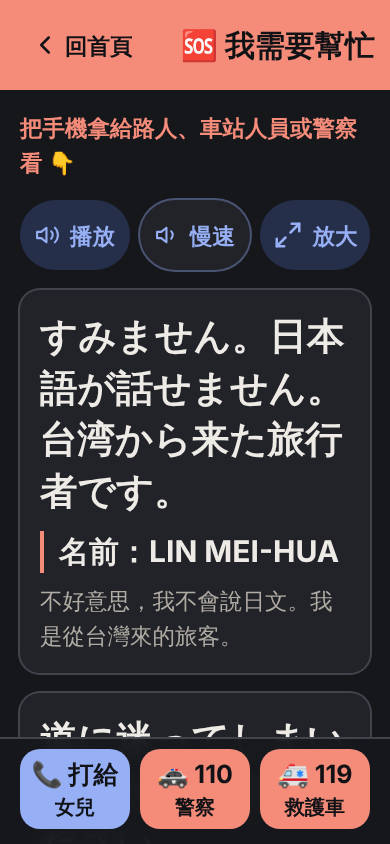
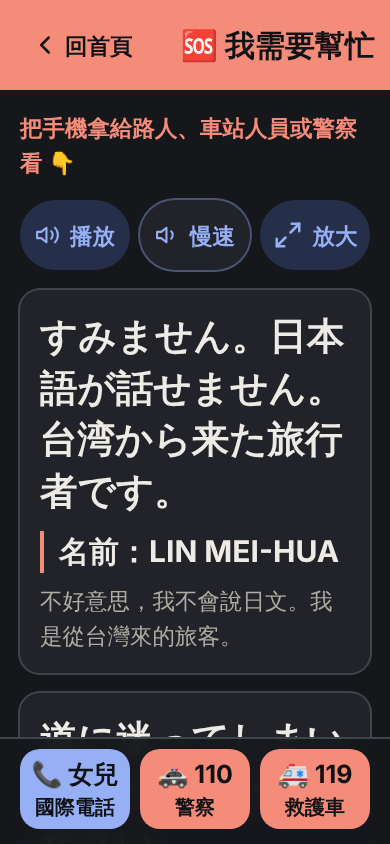
Address code review on the UX redesign
- Overlays carry a unique token in history.state instead of a depth
  number. On popstate the overlay owning the entry stays and those above
  it close; a leftover entry (after a link out of an overlay, or a
  reload) matches none, so 關閉 never needs a second tap.
- Help dock: no extra confirm() before 110/119 (tel: links never dial by
  themselves; a second prompt costs time in an emergency); the family
  button says 國際電話; labels truncate instead of overflowing; the MOFA
  24h line is back among the main numbers.
- 對方說 keeps a slow-play button, with the Japanese on its own line.
- One shared dock() helper (with its spacer) for the scene, help and
  setup docks; setup parses the profile once per keystroke; home and the
  transport picker share isPlannedFor(); the screenshot script matches
  rows by substring instead of an unescaped RegExp.

Claude-Session: https://claude.ai/code/session_01FL5DYQMe9ZWzkevjtD88Bj

Changed region(s): [[0.0923, 0.8934, 0.3077, 0.9858]]

diff --git a/src/ui/help.ts b/src/ui/help.ts
@@ -4,6 +4,7 @@ import { dialable } from "../lib/phone";
 import { type CardBlock, helpCard, LINES } from "../profile/cards";
 import { loadProfile } from "../profile/profile";
 import { fill, h, icon } from "./dom";
+import { dock } from "./layout";
 import { playButton } from "./japanese";
 import { showToOther } from "./overlay";
 
@@ -121,7 +122,7 @@ export function renderHelp(root: HTMLElement): void {
         h(
           "details",
           { class: "rounded-2xl bg-card p-4 ring-2 ring-hair" },
-          h("summary", { class: "cursor-pointer text-xl font-bold text-ai" }, "更多電話（各地辦事處、外交部）"),
+          h("summary", { class: "cursor-pointer text-xl font-bold text-ai" }, "更多電話（各地辦事處）"),
           h(
             "div",
             { class: "mt-3 space-y-3" },
@@ -138,47 +139,43 @@ export function renderHelp(root: HTMLElement): void {
           "。來源為日本政府觀光局、日本消防廳、日本警察與中華民國外交部、駐日代表處官方網站。",
         ),
       ),
-      // Room for the dock, so it never covers the last line.
-      h("div", { class: "h-24", "aria-hidden": "true" }),
+      callDock(family?.relation || "家人", familyPhone?.tel ?? null),
     ),
-    callDock(family?.relation || "家人", familyPhone?.tel ?? null),
   );
 }
 
 /** 110 and 119 live in the dock; these two come first in the list below the card. */
 const DOCKED_NUMBERS = ["police", "ambulance"];
-const MAIN_NUMBERS = ["jnto-hotline", "tecro-tokyo"];
+const MAIN_NUMBERS = ["jnto-hotline", "tecro-tokyo", "mofa-taiwan"];
 
 /**
  * Calls that matter most, docked at the bottom so they are reachable from
- * anywhere on the page. 110 and 119 ask first: a pocket tap should not
- * summon the police.
+ * anywhere on the page. No extra confirmation: a tel: link never dials by
+ * itself (iOS asks, Android opens the dialer), and a second prompt only
+ * slows someone down in an emergency.
  */
-function callDock(familyLabel: string, familyTel: string | null): HTMLElement {
-  const dial = (top: string, bottom: string, tel: string, confirmText: string | null, tone: string) =>
+function callDock(familyLabel: string, familyTel: string | null): HTMLElement[] {
+  const dial = (top: string, bottom: string, tel: string, tone: string) =>
     h(
       "a",
       {
         href: `tel:${tel}`,
-        class: `flex min-h-16 flex-col items-center justify-center rounded-2xl px-1 text-center font-bold leading-tight active:scale-95 ${tone}`,
-        onclick: (event: Event) => {
-          if (confirmText && !confirm(confirmText)) event.preventDefault();
-        },
+        class: `flex min-h-16 min-w-0 flex-col items-center justify-center rounded-2xl px-1 text-center font-bold leading-tight active:scale-95 ${tone}`,
       },
-      h("span", { class: "block whitespace-nowrap text-xl" }, top),
-      h("span", { class: "block whitespace-nowrap text-base" }, bottom),
+      h("span", { class: "block max-w-full truncate text-xl" }, top),
+      h("span", { class: "block max-w-full truncate text-base" }, bottom),
     );
   const police = EMERGENCY_NUMBERS.find((e) => e.id === "police");
   const ambulance = EMERGENCY_NUMBERS.find((e) => e.id === "ambulance");
-  return h(
-    "nav",
-    { class: "pb-safe fixed inset-x-0 bottom-0 z-20 border-t-2 border-hair bg-paper/95 backdrop-blur", "aria-label": "撥打電話" },
+  return dock(
+    "撥打電話",
     h(
       "div",
-      { class: `mx-auto grid max-w-xl gap-2 px-4 pt-2 ${familyTel ? "grid-cols-3" : "grid-cols-2"}` },
-      familyTel && dial("📞 打給", familyLabel, familyTel, null, "bg-ai text-on-accent"),
-      police && dial("🚓 110", "警察", telOf(police.number), "要打 110 報警嗎？", "bg-shu text-on-accent"),
-      ambulance && dial("🚑 119", "救護車", telOf(ambulance.number), "要打 119 叫救護車嗎？", "bg-shu text-on-accent"),
+      { class: `grid gap-2 ${familyTel ? "grid-cols-3" : "grid-cols-2"}` },
+      // The family is abroad: say so, since the call is charged as international.
+      familyTel && dial(`📞 ${familyLabel}`, "國際電話", familyTel, "bg-ai text-on-accent"),
+      police && dial("🚓 110", "警察", telOf(police.number), "bg-shu text-on-accent"),
+      ambulance && dial("🚑 119", "救護車", telOf(ambulance.number), "bg-shu text-on-accent"),
     ),
   );
 }

diff --git a/src/ui/overlay.ts b/src/ui/overlay.ts
@@ -3,16 +3,27 @@ import { plain } from "../lib/jp";
 import { BUTTON, h, icon } from "./dom";
 import { hush, play, playAll, playButton } from "./japanese";
 
-/** Marks the history entries overlays push; the value is the overlay's depth. */
+/** Marks the history entries overlays push; the value is the overlay's own token. */
 const STATE_KEY = "daijoubuOverlay";
 
 /** Open overlays, bottom first. A phrase's detail can open 給對方看 on top of itself. */
-const stack: { depth: number; teardown: () => void }[] = [];
+const stack: { token: string; teardown: () => void }[] = [];
+let opened = 0;
 
-/** Depth recorded in the current history entry: 0 on a plain page. */
-function historyDepth(): number {
-  const value = (history.state as Record<string, unknown> | null)?.[STATE_KEY];
-  return typeof value === "number" ? value : 0;
+/** Token in the current history entry, if it was pushed by an overlay. */
+function historyToken(): unknown {
+  return (history.state as Record<string, unknown> | null)?.[STATE_KEY];
+}
+
+/**
+ * Back (or forward) landed somewhere: keep the overlay whose entry this is
+ * and the ones under it, close the rest. An entry left over from an overlay
+ * that is already gone (after a reload, or a link out of an overlay) matches
+ * none, so everything closes — never a layer that ignores the back button.
+ */
+function onPop(): void {
+  const keep = stack.findIndex((entry) => entry.token === historyToken());
+  for (const entry of stack.slice(keep + 1).reverse()) entry.teardown();
 }
 
 /**
@@ -21,16 +32,17 @@ function historyDepth(): number {
  * layer only, instead of leaving the page; leaving the page closes them all.
  */
 export function openOverlay(label: string, build: (close: () => void) => HTMLElement): () => void {
-  const depth = (stack.at(-1)?.depth ?? 0) + 1;
+  opened += 1;
+  const token = `${Date.now().toString(36)}-${opened}`;
   const overlay = h("div", {
     class: "fixed inset-0 flex flex-col bg-paper text-ink",
-    style: `z-index: ${50 + depth}`,
+    style: `z-index: ${50 + stack.length + 1}`,
     role: "dialog",
     "aria-modal": "true",
     "aria-label": label,
   });
   let open = true;
-  const entry = { depth, teardown };
+  const entry = { token, teardown };
 
   function teardown(): void {
     if (!open) return;
@@ -38,21 +50,19 @@ export function openOverlay(label: string, build: (close: () => void) => HTMLEle
     hush();
     overlay.remove();
     stack.splice(stack.indexOf(entry), 1);
-    if (stack.length === 0) document.body.classList.remove("overflow-hidden");
+    if (stack.length === 0) {
+      document.body.classList.remove("overflow-hidden");
+      window.removeEventListener("popstate", onPop);
+    }
     document.removeEventListener("keydown", onKey);
-    window.removeEventListener("popstate", onPop);
     window.removeEventListener("hashchange", teardown);
     returnFocus?.focus({ preventScroll: true });
   }
   /** Closed from inside: drop the history entry we pushed, which fires popstate → teardown. */
   function close(): void {
     if (!open) return;
-    if (historyDepth() === depth) history.back();
+    if (historyToken() === token) history.back();
     else teardown();
-  }
-  function onPop(): void {
-    // Back from a layer above this one lands on this layer's entry: stay open.
-    if (historyDepth() < depth) teardown();
   }
   function onKey(event: KeyboardEvent): void {
     // Only the top layer answers the keyboard.
@@ -73,9 +83,9 @@ export function openOverlay(label: string, build: (close: () => void) => HTMLEle
 
   const returnFocus = document.activeElement instanceof HTMLElement ? document.activeElement : null;
   overlay.append(build(close));
+  if (stack.length === 0) window.addEventListener("popstate", onPop);
   stack.push(entry);
-  history.pushState({ [STATE_KEY]: depth }, "");
-  window.addEventListener("popstate", onPop);
+  history.pushState({ [STATE_KEY]: token }, "");
   window.addEventListener("hashchange", teardown);
   document.addEventListener("keydown", onKey);
   document.body.classList.add("overflow-hidden");

diff --git a/src/ui/scene.ts b/src/ui/scene.ts
@@ -7,7 +7,7 @@ import { type Ready, ready } from "../profile/fill";
 import { loadProfile, type Place, placesForToday } from "../profile/profile";
 import { fill, h, icon } from "./dom";
 import { jpText, playButton } from "./japanese";
-import { page } from "./layout";
+import { dock, page } from "./layout";
 import { askOther, openOverlay, overlayBar, showToOther } from "./overlay";
 
 /** The destination picked on the scene page; kept while the app is open. */
@@ -98,12 +98,8 @@ function heardCard(heard: Heard): HTMLElement {
     "article",
     { class: "rounded-2xl bg-card p-3 shadow-sm ring-2 ring-hair" },
     h("h3", { class: "text-2xl font-bold leading-snug" }, heard.zh),
-    h(
-      "div",
-      { class: "mt-1 flex items-center gap-2" },
-      h("p", { lang: "ja", class: "min-w-0 flex-1 text-lg text-muted" }, plain(heard.jp)),
-      playButton(heard.jp, "normal", "sm", "shrink-0"),
-    ),
+    h("p", { lang: "ja", class: "mt-1 text-lg text-muted" }, plain(heard.jp)),
+    h("div", { class: "mt-1 flex gap-2" }, playButton(heard.jp, "normal", "sm"), playButton(heard.jp, "slow", "sm")),
     h(
       "div",
       { class: `mt-2 grid gap-2 ${heard.replies.length === 3 ? "grid-cols-3" : "grid-cols-2"}` },
@@ -150,23 +146,18 @@ export function openRescue(): void {
 }
 
 /** Docked at the bottom of every scene, so help with a stuck conversation is one tap from anywhere. */
-function rescueDock(): HTMLElement {
-  return h(
-    "div",
-    { class: "pb-safe fixed inset-x-0 bottom-0 z-20 border-t-2 border-hair bg-paper/95 backdrop-blur" },
+function rescueDock(): HTMLElement[] {
+  return dock(
+    "萬用句",
     h(
-      "div",
-      { class: "mx-auto max-w-xl px-4 pt-2" },
-      h(
-        "button",
-        {
-          type: "button",
-          class: "flex min-h-14 w-full items-center justify-center gap-2 rounded-2xl bg-warn-soft text-xl font-bold text-ink ring-2 ring-hair active:scale-[0.98]",
-          onclick: openRescue,
-        },
-        "🛟 萬用句",
-        h("span", { class: "text-base font-normal text-muted" }, "聽不懂・請說慢一點…"),
-      ),
+      "button",
+      {
+        type: "button",
+        class: "flex min-h-14 w-full items-center justify-center gap-2 rounded-2xl bg-warn-soft text-xl font-bold text-ink ring-2 ring-hair active:scale-[0.98]",
+        onclick: openRescue,
+      },
+      "🛟 萬用句",
+      h("span", { class: "text-base font-normal text-muted" }, "聽不懂・請說慢一點…"),
     ),
   );
 }
@@ -276,8 +267,6 @@ export function renderScene(root: HTMLElement, [id, view]: string[]): void {
       : pickerSlot,
     heard && h("p", { class: "mt-3 text-lg text-muted" }, "聽到對方這樣說時，點一個回答，手機會念給對方聽。"),
     list,
-    // Room for the dock, so it never covers the last row.
-    h("div", { class: "h-24", "aria-hidden": "true" }),
     rescueDock(),
   ]);
   if (heard) fill(list, scene.heard.map(heardCard));

diff --git a/src/ui/setup.ts b/src/ui/setup.ts
@@ -16,7 +16,7 @@ import {
 } from "../profile/profile";
 import { type SetupSectionId, sectionSummaries } from "../profile/summary";
 import { BUTTON, type Child, fill, h, icon } from "./dom";
-import { page } from "./layout";
+import { dock, page } from "./layout";
 
 const INPUT =
   "mt-1 block min-h-14 w-full rounded-xl bg-card px-3 py-2 text-xl text-ink ring-2 ring-hair placeholder:text-muted/80 focus:ring-ai";
@@ -247,8 +247,8 @@ export function renderSetup(root: HTMLElement): void {
   let savedTimer = 0;
 
   /** Rewrites the section headers and the progress line from the current data. */
-  function refresh(): void {
-    const summaries = sectionSummaries(parseProfile(profile));
+  function refresh(parsed: Profile): void {
+    const summaries = sectionSummaries(parsed);
     for (const summary of summaries) {
       const header = headers.get(summary.id);
       if (!header) continue;
@@ -259,8 +259,9 @@ export function renderSetup(root: HTMLElement): void {
   }
 
   function save(): void {
-    saveProfile(parseProfile(profile));
-    refresh();
+    const parsed = parseProfile(profile);
+    saveProfile(parsed);
+    refresh(parsed);
     saved.textContent = "✓ 已儲存";
     window.clearTimeout(savedTimer);
     savedTimer = window.setTimeout(() => (saved.textContent = ""), 1500);
@@ -424,18 +425,15 @@ export function renderSetup(root: HTMLElement): void {
         "清除所有資料",
       ),
     ),
-    // Room for the dock, so it never covers the last button.
-    h("div", { class: "h-24", "aria-hidden": "true" }),
-    h(
-      "nav",
-      { class: "pb-safe fixed inset-x-0 bottom-0 z-20 border-t-2 border-hair bg-paper/95 backdrop-blur", "aria-label": "完成" },
+    ...dock(
+      "完成",
       h(
         "div",
-        { class: "mx-auto grid max-w-xl grid-cols-2 gap-2 px-4 pt-2" },
+        { class: "grid grid-cols-2 gap-2" },
         h("a", { href: "#/", class: `${BUTTON.secondary} min-h-14` }, icon("check"), "完成"),
         h("a", { href: "#/share", class: `${BUTTON.primary} min-h-14` }, icon("share"), "分享"),
       ),
     ),
   ]);
-  refresh();
+  refresh(parseProfile(profile));
 }

diff --git a/src/ui/layout.ts b/src/ui/layout.ts
@@ -29,3 +29,19 @@ export function page(root: HTMLElement, title: string, body: Child[], options: {
 export function section(title: string | null, ...children: Child[]): HTMLElement {
   return h("section", { class: "mt-6" }, title && h("h2", { class: "mb-2 text-xl font-bold text-muted" }, title), children);
 }
+
+/**
+ * Actions docked at the bottom of the screen, reachable from anywhere on a
+ * long page, plus the spacer that keeps the dock from covering the last
+ * line. Put both at the end of the page body.
+ */
+export function dock(label: string, ...children: Child[]): HTMLElement[] {
+  return [
+    h("div", { class: "h-24", "aria-hidden": "true" }),
+    h(
+      "nav",
+      { class: "pb-safe fixed inset-x-0 bottom-0 z-20 border-t-2 border-hair bg-paper/95 backdrop-blur", "aria-label": label },
+      h("div", { class: "mx-auto max-w-xl px-4 pt-2" }, children),
+    ),
+  ];
+}

diff --git a/src/ui/home.ts b/src/ui/home.ts
@@ -1,6 +1,6 @@
 import { SCENES } from "../content/scenes";
 import { voiceStatus } from "../lib/speech";
-import { isEmpty, loadProfile, type Place, type Profile, today } from "../profile/profile";
+import { isEmpty, isPlannedFor, loadProfile, type Place, type Profile, today } from "../profile/profile";
 import { fill, h, icon } from "./dom";
 import { pickPlace } from "./scene";
 
@@ -16,7 +16,7 @@ export function greeting(profile: Profile): string {
 
 /** Places dated today, in itinerary order. */
 export function todaysPlaces(profile: Profile, day = today()): Place[] {
-  return profile.places.filter((place) => place.date === day);
+  return profile.places.filter((place) => isPlannedFor(place, day));
 }
 
 /** "今天要去": one tap opens transport with that place already picked. */

diff --git a/src/profile/profile.ts b/src/profile/profile.ts
@@ -217,9 +217,14 @@ export function currentHotel(profile: Profile, day = today()): Hotel | null {
   return covering ?? profile.hotels[0] ?? null;
 }
 
+/** The place is planned for `day`. */
+export function isPlannedFor(place: Place, day = today()): boolean {
+  return place.date === day;
+}
+
 /** Places with today's first, then undated ones, then the other days in date order. */
 export function placesForToday(profile: Profile, day = today()): Place[] {
-  const rank = (p: Place) => (p.date === day ? 0 : p.date === "" ? 1 : 2);
+  const rank = (p: Place) => (isPlannedFor(p, day) ? 0 : p.date === "" ? 1 : 2);
   return [...profile.places].sort((a, b) => rank(a) - rank(b) || a.date.localeCompare(b.date));
 }
 
